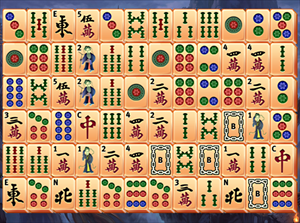
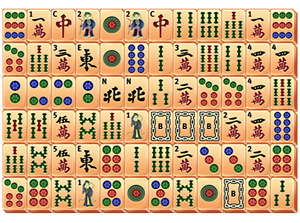
Layout previews: draw on a transparent background

diff --git a/tools/LayoutPreviews/Program.cs b/tools/LayoutPreviews/Program.cs
@@ -5,8 +5,8 @@ using System.Text.RegularExpressions;
 using Mahjong.Core;
 
 // Renders the 300x223 layout pictures for the web settings dialog, drawn like the web board:
-// Classic tiles in the shared draw order over the Dragon Valley background, with the whole layout
-// fitted and centered in the frame.
+// Classic tiles in the shared draw order on a transparent background (the dialog puts the chosen
+// background behind them), with the whole layout fitted and centered in the frame.
 //
 //   dotnet run --project tools/LayoutPreviews                     layouts without a picture yet
 //   dotnet run --project tools/LayoutPreviews -- "My Layout" Cat  just these (hidden ones too)
@@ -71,7 +71,6 @@ if (layouts.Count == 0)
     return 0;
 }
 
-using var background = Image.FromFile(Path.Combine(web, "backgrounds", "dragon-valley.jpg"));
 var tileImages = new Dictionary<string, Image>();
 foreach (var layout in layouts)
 {
@@ -110,15 +109,14 @@ Bitmap Render(LayoutDefinition layout)
         }
     }
 
-    // The frame: the background covering it, the board fitted inside and centered both ways.
+    // The frame: see-through, with the board fitted inside and centered both ways.
     using var frame = new Bitmap(Width * Oversample, Height * Oversample, PixelFormat.Format32bppArgb);
     using (var g = HighQuality(Graphics.FromImage(frame)))
     {
-        g.DrawImage(background, Centered(frame.Size, background.Size, Math.Max((double)frame.Width / background.Width, (double)frame.Height / background.Height)));
         g.DrawImage(board, Centered(frame.Size, board.Size, Math.Min((double)frame.Width / boardW, (double)frame.Height / boardH)));
     }
 
-    var preview = new Bitmap(Width, Height, PixelFormat.Format24bppRgb);
+    var preview = new Bitmap(Width, Height, PixelFormat.Format32bppArgb);
     using (var g = HighQuality(Graphics.FromImage(preview)))
     {
         g.DrawImage(frame, new Rectangle(0, 0, Width, Height));

diff --git a/web/Mahjong.Web.Tests/LayoutPreviewTests.cs b/web/Mahjong.Web.Tests/LayoutPreviewTests.cs
@@ -22,6 +22,13 @@ public sealed class LayoutPreviewTests
         Assert.All(pictures, p => Assert.Contains(p!, slugs));
     }
 
+    [Fact]
+    public void PreviewPicturesHaveSeeThroughBackgrounds()
+    {
+        // PNG IHDR: colour type is byte 25; 6 = RGBA, so the chosen background shows behind the tiles.
+        Assert.All(Directory.GetFiles(PreviewFolder(), "*.png"), file => Assert.Equal(6, File.ReadAllBytes(file)[25]));
+    }
+
     private static string PreviewFolder()
     {
         for (var dir = new DirectoryInfo(AppContext.BaseDirectory); dir != null; dir = dir.Parent)
